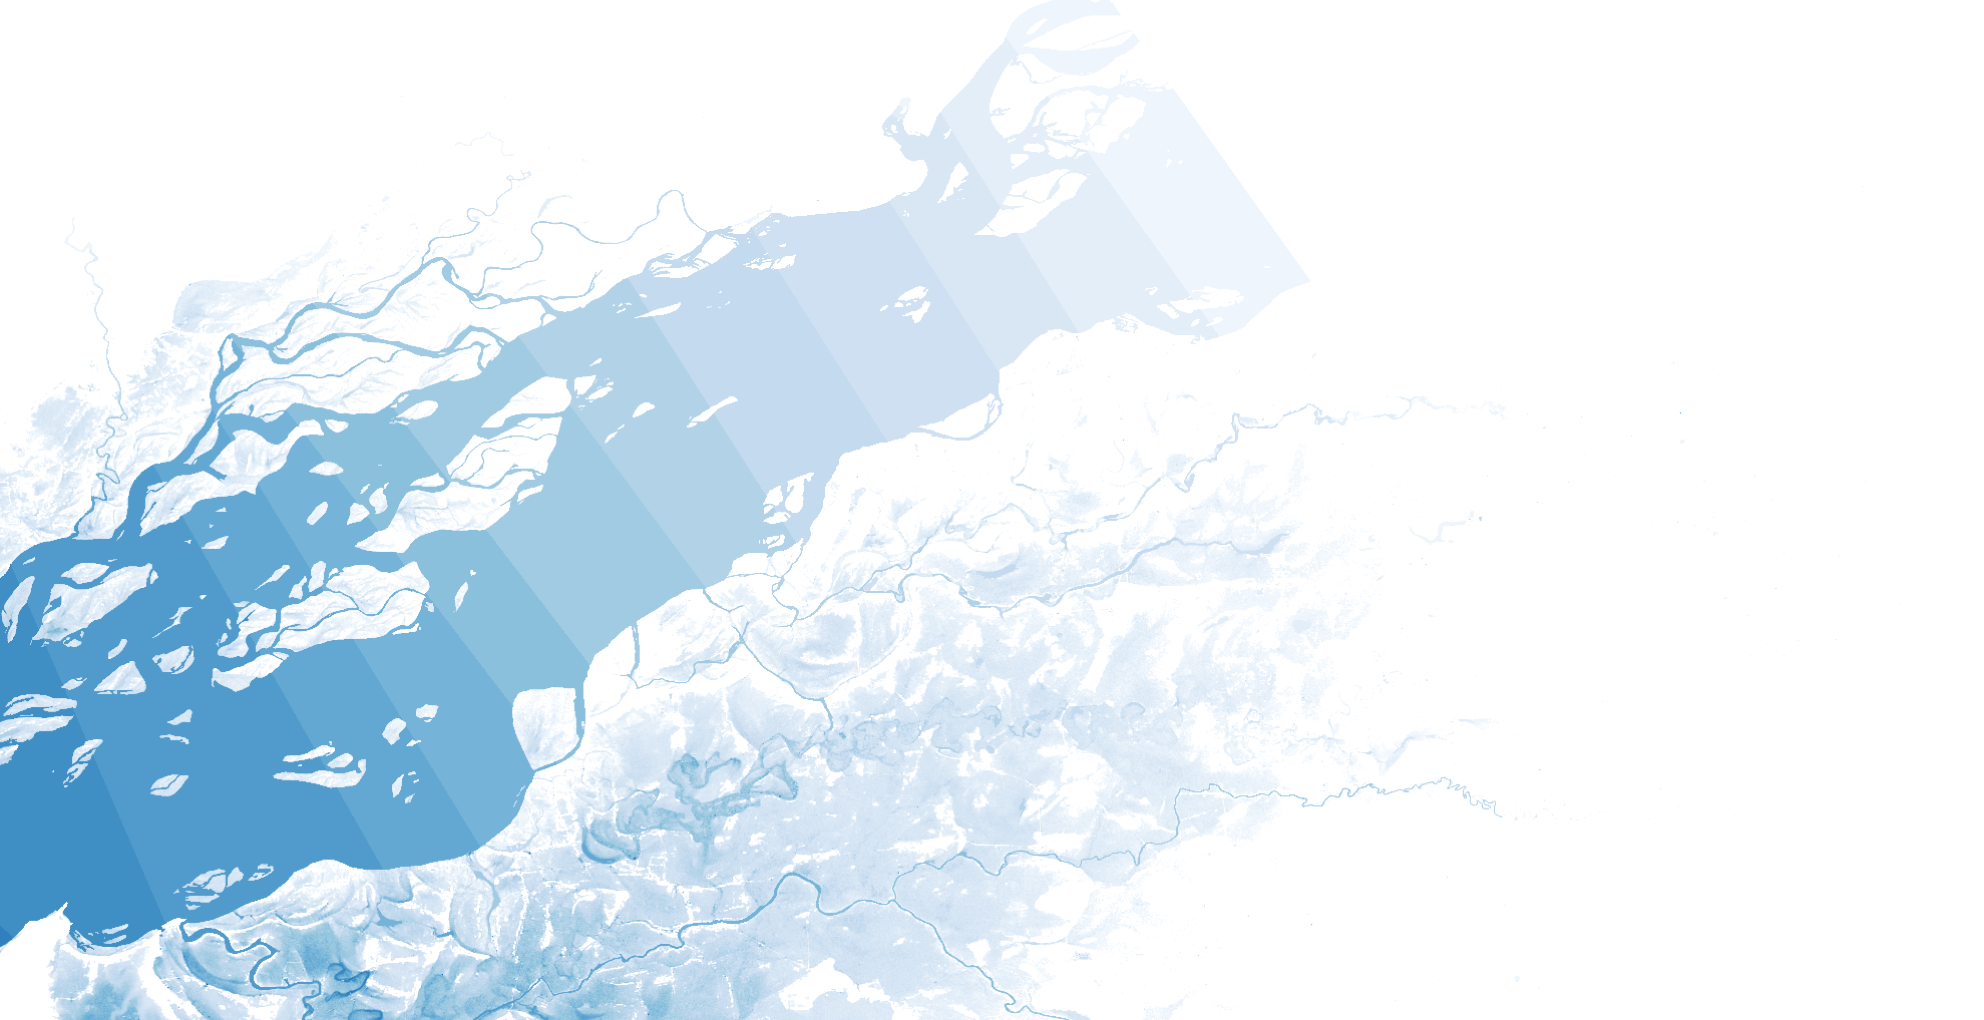
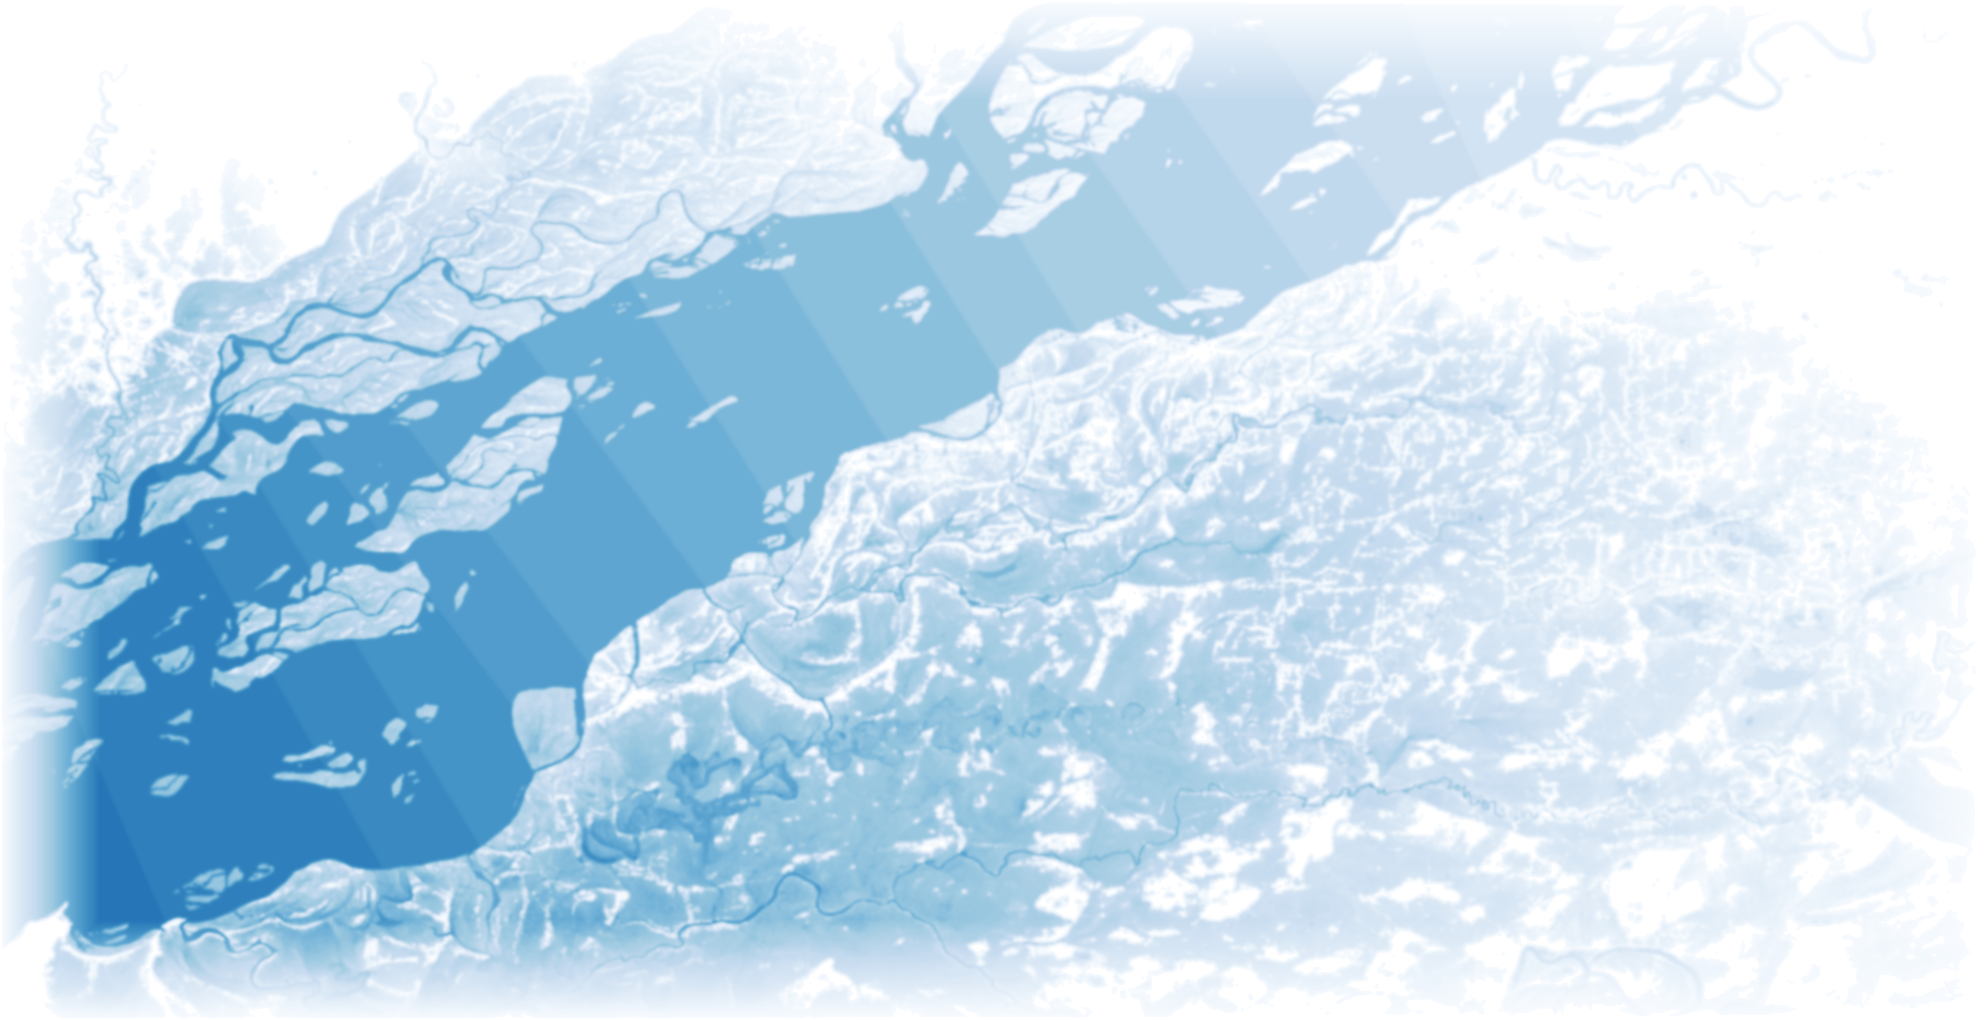
ui ux improvements

diff --git a/frontend/src/components/SafeSpotDashboard.tsx b/frontend/src/components/SafeSpotDashboard.tsx
@@ -118,47 +118,49 @@ export default function SafeSpotDashboard({
   };
 
   return (
-    <div className="bg-white border border-gray-300 shadow-sm w-full flex flex-col pointer-events-auto">
+    <div className="bg-white w-full flex flex-col pointer-events-auto rounded-2xl overflow-hidden">
         
         {/* Header */}
-        <div className="flex justify-between items-start p-4 border-b border-gray-200 bg-slate-900 text-white">
+        <div className="flex justify-between items-center p-5 border-b border-zinc-200 bg-white text-zinc-900">
             <div className="flex items-center gap-3">
-                <Shield className="w-5 h-5 text-slate-300" />
+                <div className="p-2 bg-emerald-100 rounded-lg">
+                    <Shield className="w-6 h-6 text-emerald-600" />
+                </div>
                 <div>
-                    <h2 className="text-sm font-bold tracking-tight leading-none uppercase">AI Evacuation</h2>
-                    <p className="text-xs text-slate-400 font-mono mt-1 leading-tight">Map click sets location.</p>
+                    <h2 className="text-lg font-bold tracking-tight text-zinc-900">Evacuation Route</h2>
+                    <p className="text-sm text-zinc-500 font-medium mt-0.5">Click the map to set a start point.</p>
                 </div>
             </div>
             {userLocation && (
-                <button onClick={handleReset} className="text-slate-400 hover:text-red-500 transition-colors" title="Clear Location">
+                <button onClick={handleReset} className="p-2 text-zinc-400 hover:text-red-500 hover:bg-red-50 rounded-full transition-colors" title="Clear Location">
                     <XCircle className="w-5 h-5" />
                 </button>
             )}
         </div>
 
         {/* Coordinates Display */}
-        <div className="p-4 flex flex-col gap-4">
-            <div className={`p-3 border flex flex-col gap-1 ${userLocation ? 'bg-blue-50 border-blue-200' : 'bg-gray-50 border-gray-200'}`}>
-                <div className="flex items-center gap-1.5 text-[10px] font-bold text-gray-500 uppercase tracking-wider">
-                    <MapPin className="w-3 h-3" /> Current Location
+        <div className="p-5 flex flex-col gap-5">
+            <div className={`p-4 rounded-xl flex flex-col gap-1.5 transition-all ${userLocation ? 'bg-zinc-50 border-2 border-zinc-200' : 'bg-zinc-50/50 border-2 border-dashed border-zinc-200'}`}>
+                <div className="flex items-center gap-2 text-xs font-bold text-zinc-500 uppercase tracking-widest">
+                    <MapPin className="w-3.5 h-3.5" /> Start Position
                 </div>
                 {userLocation ? (
-                    <div className="text-xs font-black text-slate-800 font-mono">
+                    <div className="text-lg font-bold text-zinc-900 tracking-tight">
                         {userLocation[0].toFixed(5)}, {userLocation[1].toFixed(5)}
                     </div>
                 ) : (
-                    <div className="text-xs font-semibold text-gray-400 italic">
-                        Click on map to set start point...
+                    <div className="text-sm font-medium text-zinc-400">
+                        Waiting for map selection...
                     </div>
                 )}
             </div>
             
             {destinationCoords && (
-                <div className="p-3 border bg-emerald-50 border-emerald-200 flex flex-col gap-1">
-                    <div className="flex items-center gap-1.5 text-[10px] font-bold text-emerald-700 uppercase tracking-wider">
-                        <MapPin className="w-3 h-3" /> Safe Zone Coords
+                <div className="p-4 rounded-xl border-2 bg-emerald-50 border-emerald-200 flex flex-col gap-1.5">
+                    <div className="flex items-center gap-2 text-xs font-bold text-emerald-600 uppercase tracking-widest">
+                        <MapPin className="w-3.5 h-3.5" /> Safe Zone Target
                     </div>
-                    <div className="text-xs font-black text-emerald-900 font-mono">
+                    <div className="text-lg font-bold text-emerald-900 tracking-tight">
                         {destinationCoords[0].toFixed(5)}, {destinationCoords[1].toFixed(5)}
                     </div>
                 </div>
@@ -167,22 +169,24 @@ export default function SafeSpotDashboard({
             <button 
                 onClick={handleFindRoute}
                 disabled={!userLocation || isSimulating}
-                className={`w-full py-2.5 font-bold text-white text-xs border transition-colors flex items-center justify-center gap-2 ${!userLocation ? 'bg-gray-300 border-gray-400 text-gray-500 cursor-not-allowed' : 'bg-slate-900 border-slate-900 hover:bg-slate-800 active:bg-slate-700'}`}
+                className={`w-full py-3.5 rounded-xl font-bold text-sm shadow-sm transition-all flex items-center justify-center gap-2 ${!userLocation ? 'bg-zinc-100 text-zinc-400 cursor-not-allowed' : 'bg-zinc-900 hover:bg-black text-white active:scale-[0.98]'}`}
             >
-                {isSimulating ? <div className="w-3.5 h-3.5 border-2 border-white/30 border-t-white rounded-full animate-spin"></div> : <Navigation className="w-3.5 h-3.5" />}
-                {isSimulating ? "Calculating..." : (routeGeoJSON ? "Recalculate Route" : "Find Safe Route")}
+                {isSimulating ? <div className="w-4 h-4 border-2 border-white/30 border-t-white rounded-full animate-spin"></div> : <Navigation className="w-4 h-4" />}
+                {isSimulating ? "Calculating Route..." : (routeGeoJSON ? "Recalculate Route" : "Find Safe Route")}
             </button>
 
             {destinationName && (
-                <div className="bg-gray-50 p-3 border border-gray-200 mt-2">
-                    <div className="text-[10px] font-bold text-gray-500 uppercase tracking-widest mb-1">Destination Name</div>
-                    <div className="text-sm font-black text-slate-800 leading-tight mb-4 truncate" title={destinationName}>{destinationName}</div>
+                <div className="mt-2 pt-5 border-t border-zinc-200 flex flex-col gap-4">
+                    <div>
+                        <div className="text-xs font-bold text-zinc-500 uppercase tracking-widest mb-1.5">Destination</div>
+                        <div className="text-xl font-bold text-zinc-900 leading-tight" title={destinationName}>{destinationName}</div>
+                    </div>
                     
                     <button 
                         onClick={handlePrepareSMS}
-                        className="w-full py-2 font-bold text-[11px] transition-colors flex items-center justify-center gap-1.5 bg-blue-600 border border-blue-700 text-white hover:bg-blue-700"
+                        className="w-full py-3.5 rounded-xl font-bold text-sm transition-all flex items-center justify-center gap-2 bg-blue-600 shadow-md shadow-blue-600/20 text-white hover:bg-blue-700 active:scale-[0.98]"
                     >
-                        <Smartphone className="w-3.5 h-3.5" />
+                        <Smartphone className="w-4 h-4" />
                         Open SMS Dispatch
                     </button>
                 </div>

diff --git a/frontend/src/components/LeafletMap.tsx b/frontend/src/components/LeafletMap.tsx
@@ -223,14 +223,7 @@ export default function LeafletMap({ layers, hoveredRainfall, aiSafeSpots, userL
 
 
 
-        {/* Raster Layer: Pre-Peak Flood Depth */}
-        {layers.prePeakFlood && (
-          <ImageOverlay 
-            url={`/data/pre_peak_flood.png?t=${new Date().getTime()}`}
-            bounds={[[26.2501389, 91.9968055], [26.5329166, 92.5465277]]}
-            opacity={0.7}
-          />
-        )}
+
 
         {/* Raster Layer: ANUGA Peak Flood Depth */}
         {layers.floodDepth && (
@@ -346,7 +339,12 @@ export default function LeafletMap({ layers, hoveredRainfall, aiSafeSpots, userL
           <Marker 
             key={`safe-spot-${index}`} 
             position={[spot.lat, spot.lng]}
-            icon={L.divIcon({ className: 'bg-transparent', html: '<div class="relative flex items-center justify-center w-14 h-14 group"><div class="absolute inset-0 bg-emerald-400 rounded-full animate-ping opacity-30"></div><div class="absolute inset-2 bg-emerald-500/20 rounded-full border border-emerald-400/50 backdrop-blur-sm"></div><div class="relative z-10 w-7 h-7 bg-emerald-500 rounded-full border-2 border-white shadow-[0_0_15px_rgba(16,185,129,0.6)] flex items-center justify-center transform group-hover:scale-110 transition-transform duration-300"><svg width="14" height="14" viewBox="0 0 24 24" fill="none" stroke="white" stroke-width="3" stroke-linecap="round" stroke-linejoin="round"><path d="M20 6L9 17l-5-5"/></svg></div></div>', iconSize: [56, 56], iconAnchor: [28, 28] })}><Popup><div className="font-sans min-w-[160px]"><div className="flex items-center gap-2 mb-2"><div className="w-2 h-2 rounded-full bg-emerald-500 animate-pulse"></div><strong className="text-emerald-800 text-[13px] tracking-wide uppercase">Verified Safe Zone</strong></div><div className="text-xs text-gray-600 mt-2 border-t pt-2 leading-relaxed"><span className="font-semibold text-gray-900">Area:</span> {spot.area ? Math.round(spot.area * 900).toLocaleString() : 0} m²<br/><span className="font-semibold text-gray-900">Coords:</span> {spot.lat.toFixed(4)}, {spot.lng.toFixed(4)}<br/><span className="font-semibold text-gray-900">Status:</span> Above Flood Level</div></div></Popup>
+            icon={L.icon({
+              iconUrl: '/safe_spot_icon_transparent.png',
+              iconSize: [80, 80],
+              iconAnchor: [40, 80],
+              popupAnchor: [0, -80]
+            })}><Popup><div className="font-sans min-w-[160px]"><div className="flex items-center gap-2 mb-2"><div className="w-2 h-2 rounded-full bg-emerald-500 animate-pulse"></div><strong className="text-emerald-800 text-[13px] tracking-wide uppercase">Verified Safe Zone</strong></div><div className="text-xs text-gray-600 mt-2 border-t pt-2 leading-relaxed"><span className="font-semibold text-gray-900">Area:</span> {spot.area ? Math.round(spot.area * 900).toLocaleString() : 0} m²<br/><span className="font-semibold text-gray-900">Coords:</span> {spot.lat.toFixed(4)}, {spot.lng.toFixed(4)}<br/><span className="font-semibold text-gray-900">Status:</span> Above Flood Level</div></div></Popup>
           </Marker>
             ))} 
           </LayerGroup>

diff --git a/frontend/src/app/page.tsx b/frontend/src/app/page.tsx
@@ -131,12 +131,12 @@ export default function Home() {
           {activeTab && activeTab !== 'recipients' && (
             <motion.div 
                className="relative flex items-start"
-               animate={{ x: isPanelCollapsed ? -496 : 0 }}
+               animate={{ x: isPanelCollapsed ? (activeTab === 'overview' ? -336 : activeTab === 'safe-spot' ? -396 : -496) : 0 }}
                transition={{ duration: 0.3, ease: "easeInOut" }}
                // Move panels from bottom to just below the header horizontally
                style={{ top: '80px', left: '16px', position: 'absolute' }}
             >
-              <div className="pointer-events-auto bg-white shadow-xl border border-gray-200 rounded-2xl flex flex-col overflow-hidden w-[480px] max-h-[calc(100vh-140px)] z-[1000]">
+              <div className={`pointer-events-auto bg-white shadow-xl border border-gray-200 rounded-2xl flex flex-col overflow-hidden max-h-[calc(100vh-140px)] z-[1000] ${activeTab === 'overview' ? 'w-[320px]' : activeTab === 'safe-spot' ? 'w-[380px]' : 'w-[480px]'}`}>
                 {/* Content switching based on activeTab */}
                 {activeTab === 'overview' && <MapOverview layers={layers} setLayers={setLayers} />}
                 {activeTab === 'meteorology' && <RainfallDashboard setLayers={setLayers} setAiSafeSpots={setAiSafeSpots} />}
@@ -244,10 +244,11 @@ export default function Home() {
             />
             {/* Drawer */}
             <motion.div 
-              initial={{ x: '-100%' }}
+              initial={{ x: -320 }}
               animate={{ x: 0 }}
-              exit={{ x: '-100%' }}
-              transition={{ type: 'tween', duration: 0.15 }}
+              exit={{ x: -320 }}
+              transition={{ type: 'spring', stiffness: 400, damping: 40 }}
+              style={{ willChange: "transform" }}
               className="fixed top-0 left-0 h-full w-80 bg-white shadow-2xl z-[3010] pointer-events-auto flex flex-col"
             >
               <div className="flex items-center justify-between p-4 border-b border-gray-200">

diff --git a/frontend/src/components/MapOverview.tsx b/frontend/src/components/MapOverview.tsx
@@ -16,7 +16,6 @@ export default function MapOverview({ layers, setLayers }: any) {
     { id: 'roads', label: 'Roads' },
     { id: 'buildings', label: 'Buildings' },
     { id: 'shelters', label: 'Shelters' },
-    { id: 'prePeakFlood', label: 'Pre-Peak Flood' },
     { id: 'floodDepth', label: 'Peak Flood' }
   ];
 
@@ -42,9 +41,6 @@ export default function MapOverview({ layers, setLayers }: any) {
               <div className={`w-3 h-3 border ${layers[item.id as keyof typeof layers] ? 'bg-blue-600 border-blue-600' : 'bg-white border-gray-400'}`}></div>
               <span>{item.label}</span>
             </div>
-            <span className="text-xs text-gray-400 font-mono">
-              {layers[item.id as keyof typeof layers] ? 'ON' : 'OFF'}
-            </span>
           </button>
         ))}
       </div>

diff --git a/frontend/src/components/RescueDashboard.tsx b/frontend/src/components/RescueDashboard.tsx
@@ -42,10 +42,7 @@ export default function RescueDashboard({ onSelectGroup, onStrandedLoaded }: { o
                   <p className="text-xs text-slate-400 font-mono mt-1 leading-tight">Live SOS Triage</p>
               </div>
           </div>
-          <div className="flex items-center gap-1.5 border border-red-500/50 bg-red-950/30 px-2 py-1 text-red-500 font-bold text-[10px] uppercase">
-            <span className="w-2 h-2 bg-red-500 animate-pulse"></span>
-            LIVE
-          </div>
+
       </div>
 
       <div className="p-3 bg-gray-50 border-b border-gray-200">

diff --git a/backend/hydraulic.py b/backend/hydraulic.py
@@ -45,6 +45,21 @@ def run_anuga_simulation(discharge_data_json):
     flood_mask = (dem_data <= flood_level) & (dem_data > -9999)
     depth_data = np.where(flood_mask, flood_level - dem_data, 0)
     
+    # Apply Gaussian Blur to smooth blocky DEM pixels
+    depth_data = ndimage.gaussian_filter(depth_data, sigma=1.5)
+    
+    # Create an edge fade mask (feathering) to avoid hard straight-line cutoffs at the bounding box
+    h, w = dem_data.shape
+    y, x = np.ogrid[:h, :w]
+    dist_x = np.minimum(x, w - 1 - x)
+    dist_y = np.minimum(y, h - 1 - y)
+    dist = np.minimum(dist_x, dist_y)
+    fade_pixels = 100.0 # Fade out over 100 pixels near the edge
+    fade = np.clip(dist / fade_pixels, 0, 1)
+    
+    # Apply fade
+    depth_data = depth_data * fade
+    
     fig, ax = plt.subplots(figsize=(10, 10))
     cmap = plt.cm.Blues
     cmap.set_under(color='none') 
@@ -54,24 +69,11 @@ def run_anuga_simulation(discharge_data_json):
     plt.savefig(out_png_path, transparent=True, bbox_inches='tight', pad_inches=0, dpi=256)
     plt.close(fig)
     
-    # 2. Pre-Peak Flood PNG
-    pre_peak_severity = min(1.0, pre_peak_discharge / 150.0)
-    pre_peak_flood_level = dem_min + (dem_max - dem_min) * (pre_peak_severity * 0.7)
-    
-    pre_peak_flood_mask = (dem_data <= pre_peak_flood_level) & (dem_data > -9999)
-    pre_peak_depth_data = np.where(pre_peak_flood_mask, pre_peak_flood_level - dem_data, 0)
-    
-    fig, ax = plt.subplots(figsize=(10, 10))
-    ax.imshow(pre_peak_depth_data, cmap=cmap, vmin=0.1, vmax=max(0.2, pre_peak_flood_level-dem_min))
-    ax.axis('off')
-    plt.savefig(pre_peak_png_path, transparent=True, bbox_inches='tight', pad_inches=0, dpi=256)
-    plt.close(fig)
-    
     # 3. Calculate Safe Spots from Peak Flood
     dry_mask = (~flood_mask) & (dem_data > -9999)
     labeled_array, num_features = ndimage.label(dry_mask)
     
-    min_blob_size = 100
+    min_blob_size = 500 # Increased from 100 to require much larger continuous dry areas
     safe_spots = []
     
     for i in range(1, num_features + 1):
@@ -84,5 +86,8 @@ def run_anuga_simulation(discharge_data_json):
             lon, lat = transform * (center_x, center_y)
             safe_spots.append({"lat": lat, "lng": lon, "id": i, "area": int(np.sum(blob_mask))})
             
-    print(f"ANUGA Simulation Complete. Found {len(safe_spots)} Safe Zones.")
+    # Sort by area (descending) and keep only the top 8 largest safe spots to avoid clutter
+    safe_spots = sorted(safe_spots, key=lambda x: x["area"], reverse=True)[:8]
+    
+    print(f"ANUGA Simulation Complete. Found {len(safe_spots)} major Safe Zones.")
     return safe_spots

diff --git a/backend/wflow_runner.py b/backend/wflow_runner.py
@@ -94,7 +94,7 @@ def calculate_runoff(rainfall_csv_content: str, amc_condition: str = "Normal") -
         time_val = float(row.get('time', 0))
         # Handle cases where column might be named 'precipitation' or 'rainfall'
         p_val = row.get('precipitation', row.get('rainfall', 0))
-        P_inc = float(p_val)
+        P_inc = float(p_val) * 2.5 # Artificially increased rainfall for more severe flooding
         
         cumulative_P += P_inc
         
